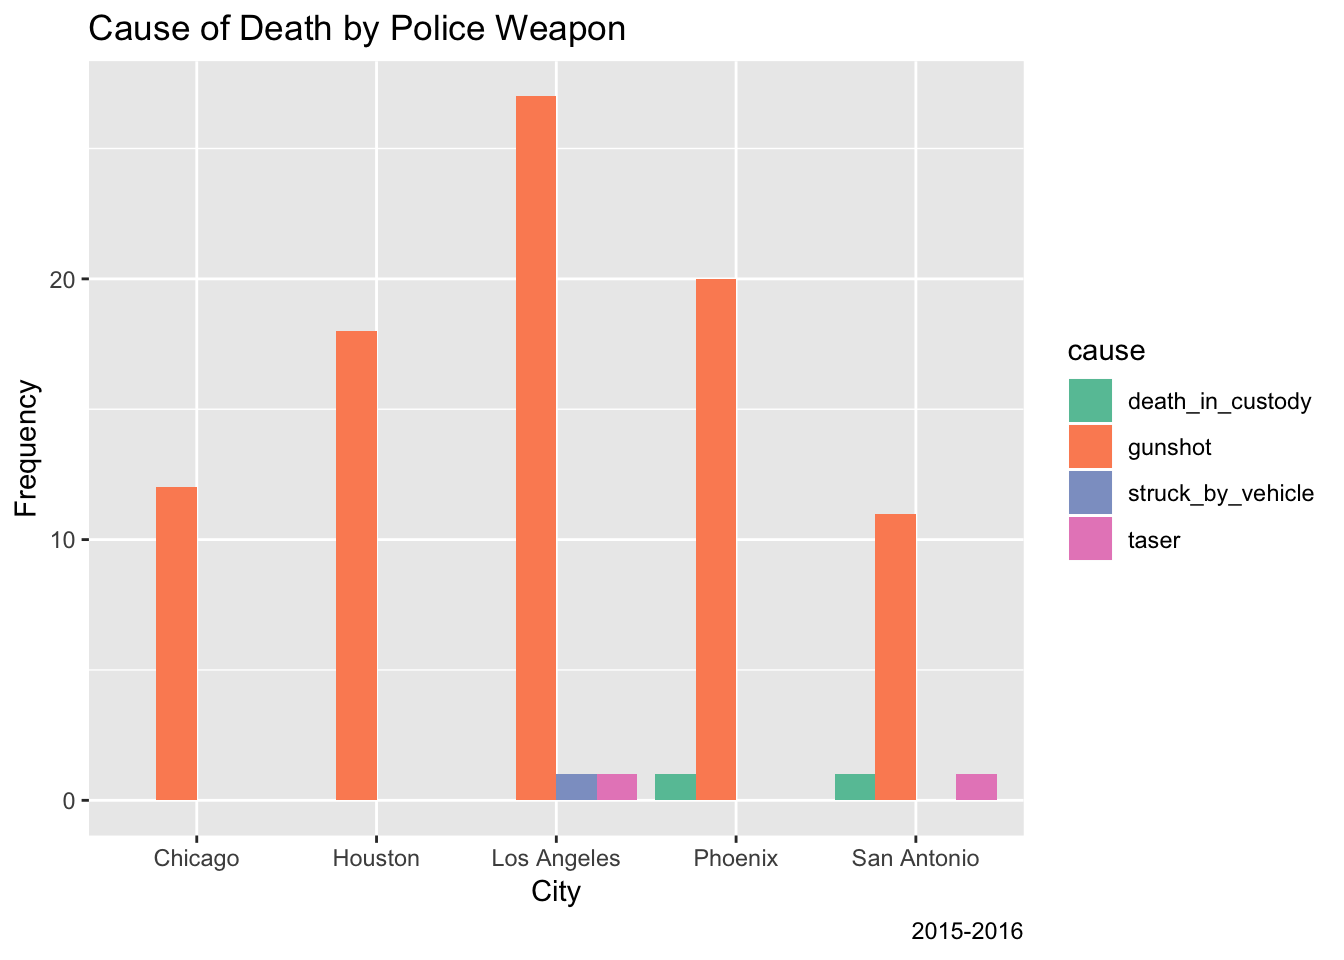
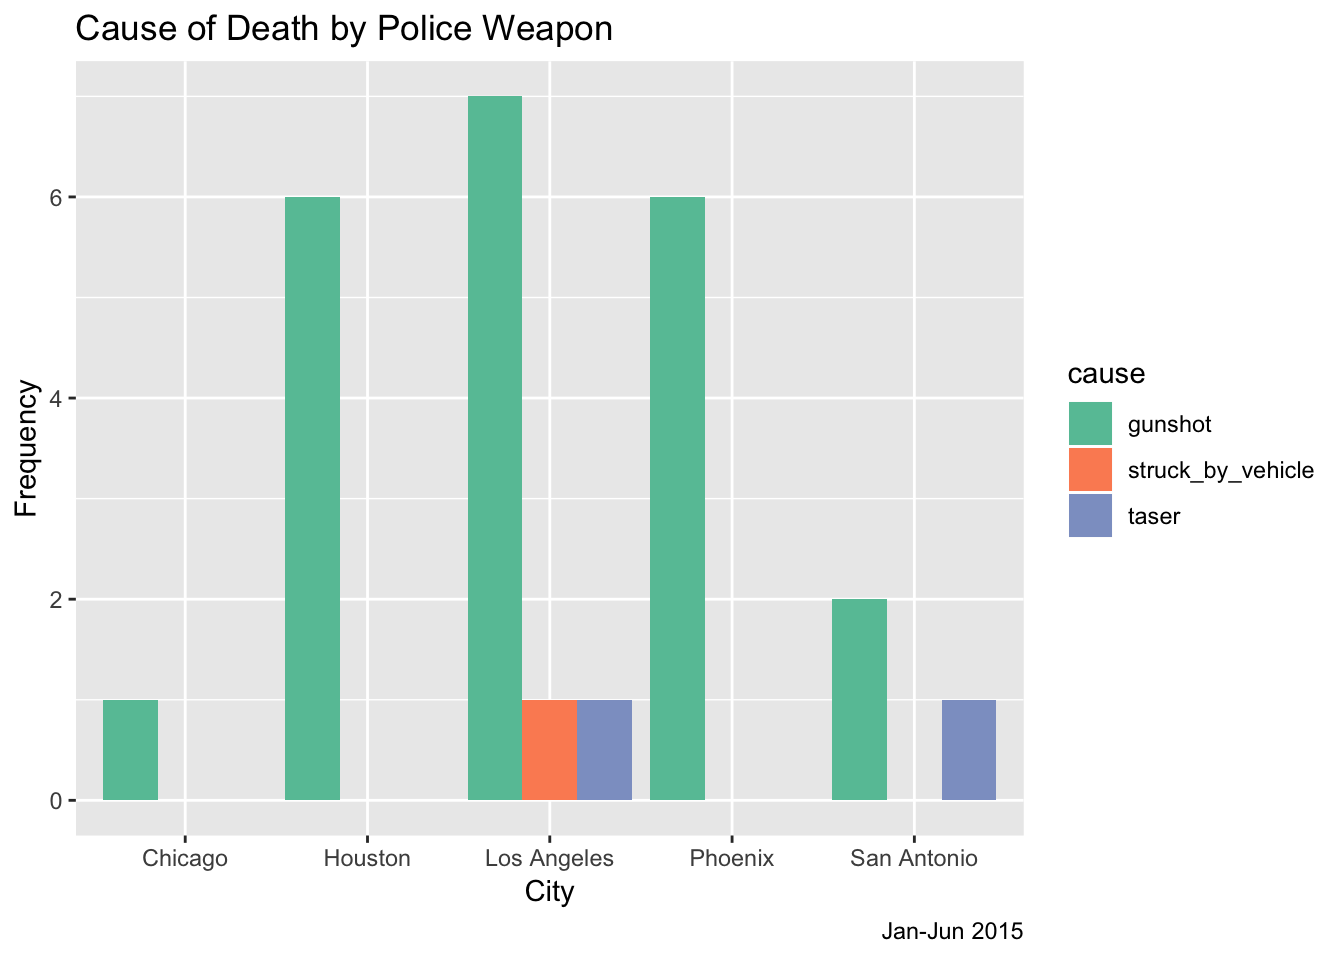
JV - editing to 2015 only

diff --git a/top_5_cities.html b/top_5_cities.html
@@ -215,7 +215,7 @@ $(document).ready(function () {
 </div>
 
 
-<p>While we hope to identify patterns across the US, the sample in most cities is relatively small. Here we take an interesting look into the 5 cities with the most police killings in 2015-2016.</p>
+<p>While we hope to identify patterns across the US, the sample in most cities is relatively small. Here we take an interesting look into the 5 cities with the most police killings in 2015.</p>
 <table>
 <thead>
 <tr class="header">
@@ -226,29 +226,29 @@ $(document).ready(function () {
 <tbody>
 <tr class="odd">
 <td align="left">Los Angeles</td>
-<td align="right">29</td>
+<td align="right">9</td>
 </tr>
 <tr class="even">
-<td align="left">Phoenix</td>
-<td align="right">21</td>
+<td align="left">Houston</td>
+<td align="right">6</td>
 </tr>
 <tr class="odd">
-<td align="left">Houston</td>
-<td align="right">18</td>
+<td align="left">Phoenix</td>
+<td align="right">6</td>
 </tr>
 <tr class="even">
 <td align="left">San Antonio</td>
-<td align="right">13</td>
+<td align="right">3</td>
 </tr>
 <tr class="odd">
 <td align="left">Chicago</td>
-<td align="right">12</td>
+<td align="right">1</td>
 </tr>
 </tbody>
 </table>
 <p>Most of us assume police kill with their guns. This graph shows us that the assumption is mostly accurate. In the top 5 cities for police killings death by gunshot was by far the most common cause of death for the victim.</p>
 <p><img src="top_5_cities_files/figure-html/unnamed-chunk-3-1.png" width="672" /></p>
-<p>Another point of tension portrayed in the media is whether or not the victim was armed. Here we can see that the victim was often armed. In many cases across the cities the most common category of armament was a firearm. One exception stands out: Houston. In Houston the victim was more often unarmed than armed with a firearm.</p>
+<p>Another point of tension portrayed in the media is whether or not the victim was armed. Here we can see that the victim was often unarmed. In Houston all but 1 victim were unarmed. In San Antonio the victim was never unarmed.</p>
 <p><img src="top_5_cities_files/figure-html/unnamed-chunk-4-1.png" width="672" /></p>
 
 
